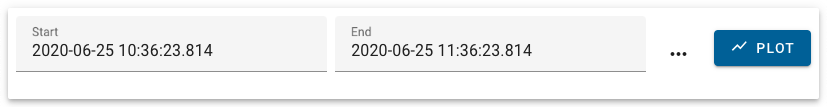
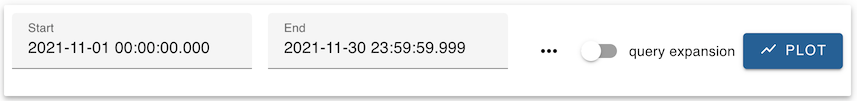
docs: add how-to for query expansion
closes #135

diff --git a/docs/howtos/query_expansion.md b/docs/howtos/query_expansion.md
@@ -1,0 +1,44 @@
+# How to extend the query range
+
+This document will guide you through the steps to create a plot that "extends beyond" the time range you originally want to view. This allows the line plot of the values to reach all the way to the edges of the chart.
+This comes in handy when plotting "slow" values (e.g. manually set values) together with "fast" ones.
+
+## Scenario
+
+You want to plot these channels over the week starting on 2021-10-25:
+
+- ABK1:STA:1
+- ABK2:STA:1
+
+## Step-by-step instructions
+
+### Step 1: Select the channels for plotting
+
+Open _databuffer UI_ in your browser and search for `^ABK.*:STA:1$`. From the search results select these channels:
+
+- ABK1:STA:1
+- ABK2:STA:1
+
+Click on button _plot selected_ ![plot selected](../images/button_plot_selected.png) to change to the _plot_ view.
+
+### Step 2: Select time range
+
+On the _plot_ view, check if the text fields for _Start_ and _End_ are displayed:
+
+![plot range](../images/plot_range.png)
+
+If they are not currently displayed, click the _select plot range_ tool button ![select plot range](../images/tool_button_select_plot_range.png).
+
+Enter the start time `2021-10-25` and the end time `2021-10-31 23:59:59.999`. Click on the _plot button_ ![plot button](../images/button_plot.png) and wait for the plot to be displayed.
+
+![plot without query expansion](../images/plot_without_query_expansion.png)
+
+**Please note**, how there are gaps to the left and right of the displayed plot. This is because, within the time range requested, the first and last data points are "far away" from the actual start and end time.
+
+### Step 3: Turn on query expansion
+
+Turn on the _query expansion switch_ ![query expansion switch](../images/switch_query_expansion.png), click the _plot button_ again, and wait for the updated plot to be displayed.
+
+![plot with query expansion](../images/plot_with_query_expansion.png)
+
+**Please note**, how now there are no gaps to the left and right. The query expansion feature of Data API has provided the last data point before the start time, and the next data point after the end time, so the line plot could be continued all the way to the edges.

diff --git a/docs/reference/url_params_preselect.md b/docs/reference/url_params_preselect.md
@@ -78,6 +78,17 @@ The variation of plot to be used. Only specific constant values are supported:
 
 Any other value is being ignored and results in using the default.
 
+## queryExpansion
+
+Enable query expansion by setting to `1`. With query expansion enabled, the query range will be extended to include 1 data point before the start time, and 1 data point after the end time if these data points exist. This effectively connects the line plot to the left and right edges of the chart in case of sparse data points.
+
+Examples:
+
+| Example                         | meaning                     |
+| ------------------------------- | --------------------------- |
+| `1`                             | query expansion is enabled  |
+| any other value, or not present | query expansion is disabled |
+
 ## startTime
 
 Start time of the plot as an absolute timestamp in one of those formats:

diff --git a/docs/index.md b/docs/index.md
@@ -9,6 +9,7 @@ This is the online documentation for _databuffer UI_ version 4.
 These guides provide step-by-step instructions for **achieving common tasks**. We try to keep them short and to the point, so you can reach your goal without much fuss. That's why in the how-to guides we keep explanations to a minimum. We want you to have a little bit of context and maybe a pointer or two if you _want_ to extend your knowledge, so you don't have to trust us blindly.
 
 - [How to download channel data](./howtos/download_channel_data.md)
+- [How to extend the query range](./howtos/query_expansion.md)
 - [How to plot wave forms with the index plot](./howtos/index_plot.md)
 - [How to run databuffer-ui with docker](./howtos/docker.md)
 - [How to share a link to a plot](./howtos/share_link_to_plot.md)
